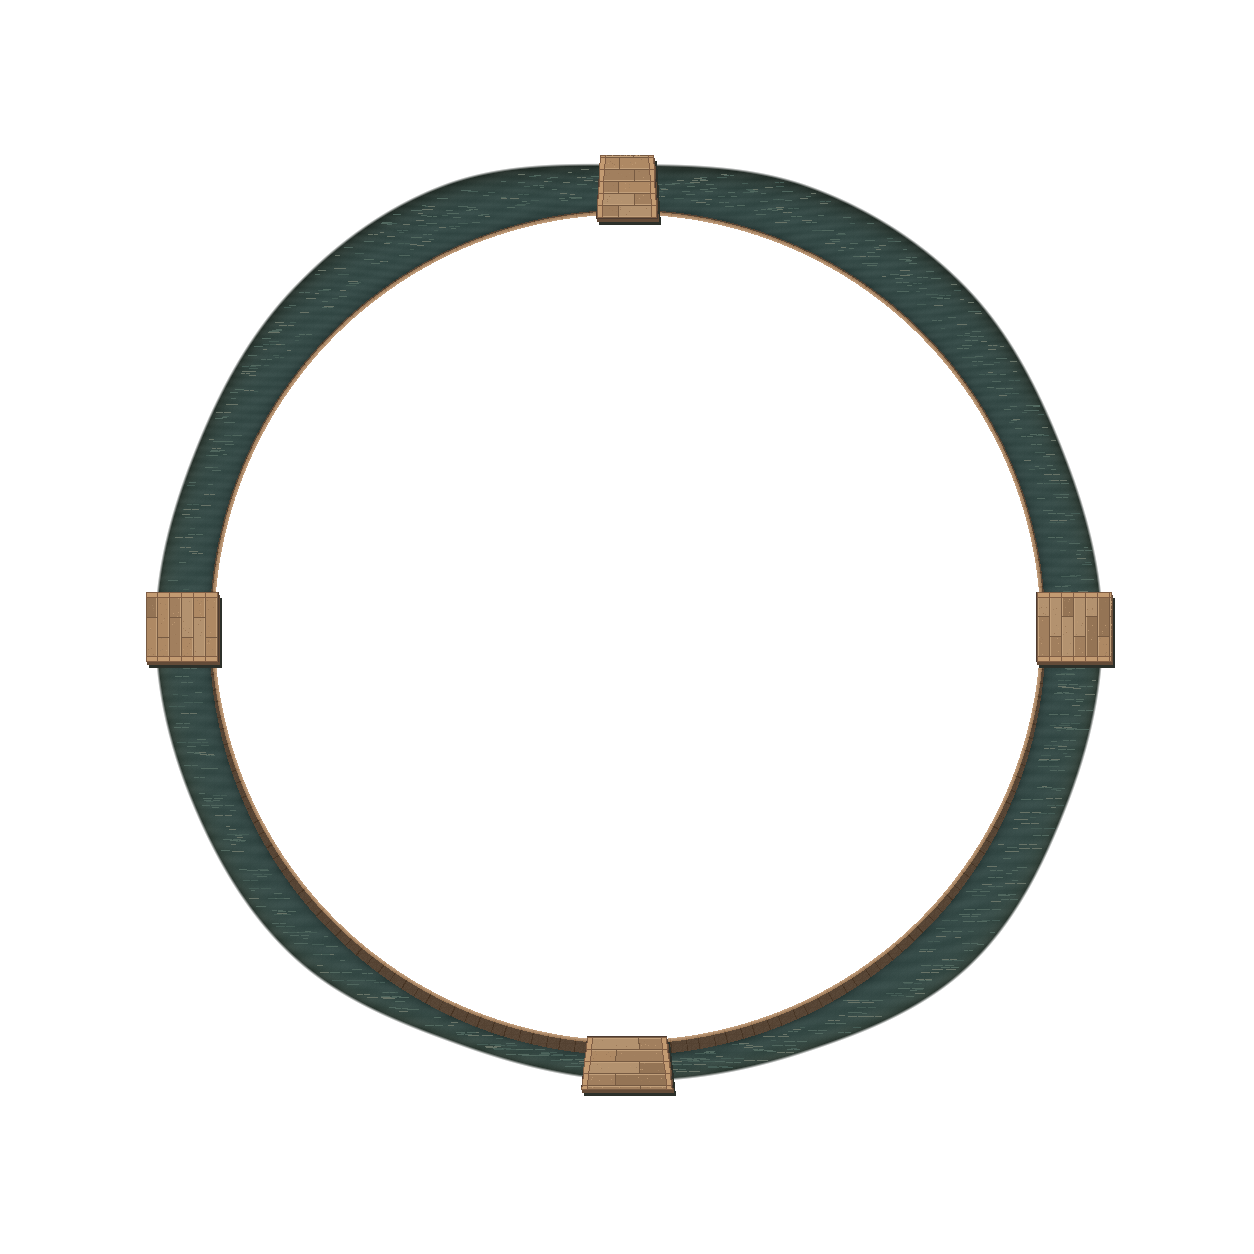
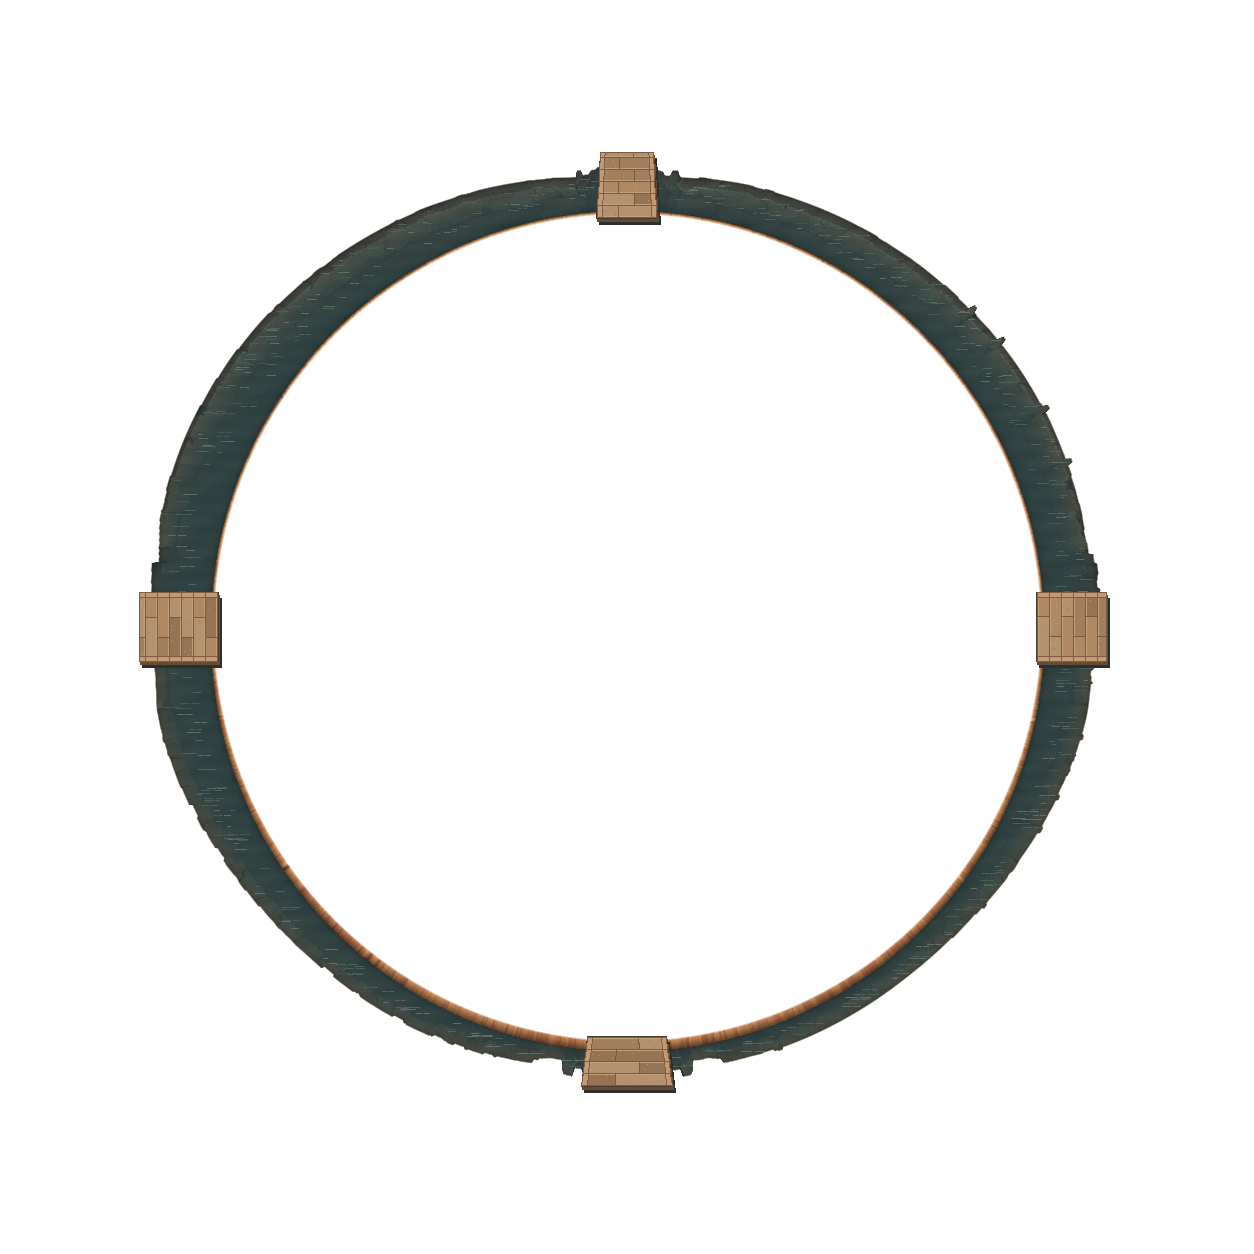
원본 석재 벽돌 밑선을 따라 물길과 반사 수정

diff --git a/tools/build_game_art.py b/tools/build_game_art.py
@@ -40,7 +40,7 @@ def sprites():
 
 
 def shore_depths(samples):
-    """Trace the sandstone edge in the source painting, clockwise from east."""
+    """Interpolate the marked bases of the source stones, clockwise from east."""
     def sample(angle):
         pos = angle % math.tau / math.tau * len(samples)
         i = int(pos)
@@ -50,6 +50,47 @@ def shore_depths(samples):
     return sample
 
 
+def trace_wall_base(art, samples):
+    """Snap the traced guide to the original brick/sand seam, preserving the masonry."""
+    guide = shore_depths(samples)
+    cx, cy = art.width / 2, art.height / 2
+    rgb = art.load()
+    radii = []
+    resolution = 1536
+    for index in range(resolution):
+        angle = index * math.tau / resolution
+        vx, vy = math.cos(angle), math.sin(angle)
+        guess = guide(angle)
+        # At the gates there is no continuous stone to follow.
+        gate_distance = abs(math.sin(2*angle))
+        if gate_distance < .045:
+            radii.append(guess)
+            continue
+        def source(r):
+            samples = [rgb[round(cx + vx*r - vy*side),round(cy + vy*r + vx*side)]
+                       for side in (-2,-1,0,1,2)]
+            return tuple(sum(pixel[c] for pixel in samples)/len(samples) for c in range(3))
+        result, best = guess, 17.0
+        for shift in range(-7,6):
+            r = guess + shift
+            inside, outside = source(r-2),source(r+2)
+            # The front has a bright coping lip. Across the arena the vertical
+            # courses sit in shadow; both are read from the painted image.
+            if vy >= 0:
+                score = outside[1]-inside[1] + .36*(outside[2]-inside[2])
+            else:
+                score = inside[0]-outside[0] + .33*(inside[1]-outside[1])
+            score -= abs(shift)*2.1
+            if score > best:
+                result, best = r-.65, score
+        blend = min(1, max(0, (gate_distance-.045)/.10))
+        radii.append(guess+(result-guess)*blend)
+    # Median across nearby rays to stop individual paint speckles pulling the edge.
+    smooth = [sorted(radii[(i+j) % resolution] for j in (-2,-1,0,1,2))[2]
+              for i in range(resolution)]
+    return shore_depths(smooth)
+
+
 def water():
     settings = SETTINGS['arena']
     scale = json.loads((ROOT/'data/scale.json').read_text(encoding='utf-8'))
@@ -57,13 +98,15 @@ def water():
     radius = settings['ring_radius_px']
     drop = settings['bank_drop_px']
     bridge = settings['bridge_width_m']*radius/radius_m
-    shore = shore_depths(settings['shore_px'])
     with Image.open(ROOT/settings['art']) as source:
-        size = source.size
+        art = source.convert('RGB')
+    shore = trace_wall_base(art,settings['wall_base_px'])
+    size = art.size
+    wall_color = art.load()
     cx,cy = size[0]/2,size[1]/2
     texture = Image.new('RGBA',size)
     pixels = texture.load()
-    limit = max(settings['shore_px']) + 8
+    limit = max(settings['wall_base_px']) + 8
     for y in range(int(cy-limit),int(cy+limit)+1):
         for x in range(int(cx-limit),int(cx+limit)+1):
             dx,dy = (x-cx,y-cy)
@@ -77,30 +120,36 @@ def water():
             front = max(0,dy/r)
             # Water is below the sand. The near edge exposes a dark stone face;
             # at the back that same face is hidden behind the island.
-            wall = 2.8 + drop*front
+            wall = 1.7 + drop*.75*front
             depth = r-radius
             grain = (x*31+y*17+x*y*13)%9
             if depth < wall:
-                joint = abs((theta*radius + math.sin(theta*93)*1.1) % 13.8) < 1.0
-                light = max(0,2-depth)*14 - (16 if joint else 0) + grain
-                base = (141,106,73) if depth < 1.4 else (83,65,49)
-                pixels[x,y] = (*tuple(max(0,int(c+light)) for c in base),255)
+                joint = (theta*radius + math.sin(theta*93)*1.1) % 13.8 < 1.0
+                pct = max(0, depth) / wall
+                sand = wall_color[round(cx+dx*(radius-4)/r),round(cy+dy*(radius-4)/r)]
+                light = (1 - .54*pct) * (.89 if joint else 1)
+                color = tuple(round(channel*light+grain*.28) for channel in sand)
+                pixels[x,y] = (*color, min(255,round((depth+2)*125)))
                 continue
 
             stone_dist = outer-r
-            # Shade against both banks and pick up warm reflection from the old stone.
-            shade = 1 - .54*math.exp(-stone_dist/(4 + 6*max(0,-dy/r)))
-            shade -= .23*math.exp(-(depth-wall)/4)
-            warm = 10*math.exp(-stone_dist/10)
-            wave = math.sin(dy*(.6-.15*dy/r)+math.sin(dx*.038))
-            glint = 3*wave + 2*math.sin(dy*.28+dx*.13) + grain*.45
-            base = (53+warm,74+warm*.38,71-warm*.43)
-            color = tuple(max(0,int(c*shade+glint)) for c in base)
-            # Let the original paving still define the outer silhouette.
-            pixels[x,y] = (*color,min(255,round(stone_dist*90)))
+            # Reflect the real lowest stone row, with ripples breaking the image.
+            ripple = math.sin(dy*.41+math.sin(dx*.054)) + math.sin(dy*.19+dx*.11)
+            reflect_at = theta + ripple*.005
+            reflect_r = outer + min(34,stone_dist*.75) + 5
+            reflected = wall_color[
+                round(cx+reflect_r*math.cos(reflect_at)),
+                round(cy+reflect_r*math.sin(reflect_at))]
+            strength = .30*math.exp(-stone_dist/(9 + 8*max(0,-dy/r)))
+            shade = 1 - .42*math.exp(-stone_dist/4.5) - .21*math.exp(-(depth-wall)/4)
+            wet = (46,65,65)
+            speckle = ripple*1.6 + grain*.34
+            color = tuple(round((base*(1-strength) + reflected[i]*strength)*shade+speckle)
+                          for i,base in enumerate(wet))
+            pixels[x,y] = (*color,min(255,round(stone_dist*180)))
     draw = ImageDraw.Draw(texture)
     rng = random.Random(72)
-    for _ in range(1150):
+    for _ in range(710):
         angle = rng.uniform(0,math.tau)
         near = (1+math.sin(angle))/2
         r = rng.uniform(radius+11,shore(angle)-6)
@@ -110,7 +159,7 @@ def water():
                and pixels[round(x+d),round(y)][2] > 48
                and abs(math.hypot(x+d-cx,y-cy)-radius) > drop+5 for d in (0,span/2,span)):
             # Low, broken, predominantly horizontal glints follow the floor perspective.
-            color = rng.choice(('#4f655d','#52685f','#455c55','#687367'))
+            color = rng.choice(('#4a615a','#4c645d','#455a54','#626e63'))
             for start,end in ((0,span*.44),(span*.58,span)):
                 draw.line((x+start,y,x+end,y),fill=color)
     for side in range(4):

diff --git a/presentation_data.py b/presentation_data.py
@@ -3,24 +3,72 @@ VISUALS = {'arena': {'id': 'arena',
            'art': 'art/background-review-v1/colosseum.png',
            'water': 'assets/arena-water.png',
            'ring_radius_px': 415,
-           'shore_px': [476,
-                        475,
-                        482,
-                        461,
-                        454,
-                        451,
-                        470,
-                        470,
-                        473,
-                        468,
-                        477,
-                        480,
-                        464,
-                        478,
-                        481,
-                        471],
            'bank_drop_px': 10,
-           'bridge_width_m': 5.0},
+           'bridge_width_m': 5.0,
+           'wall_base_px': [471,
+                            469,
+                            470,
+                            467,
+                            463,
+                            459,
+                            455,
+                            452,
+                            451,
+                            450,
+                            450,
+                            450,
+                            450,
+                            449,
+                            442,
+                            453,
+                            451,
+                            452,
+                            442,
+                            451,
+                            453,
+                            456,
+                            458,
+                            459,
+                            460,
+                            464,
+                            466,
+                            471,
+                            474,
+                            476,
+                            478,
+                            474,
+                            480,
+                            481,
+                            481,
+                            483,
+                            484,
+                            484,
+                            484,
+                            483,
+                            481,
+                            478,
+                            475,
+                            472,
+                            468,
+                            464,
+                            460,
+                            456,
+                            467,
+                            456,
+                            459,
+                            462,
+                            464,
+                            466,
+                            468,
+                            470,
+                            471,
+                            473,
+                            474,
+                            474,
+                            473,
+                            473,
+                            471,
+                            476]},
  'sprites': {'id': 'sprites',
              'atlas': 'art/sprite-review/atlas.json',
              'asset_dir': 'assets/combat-sprites',

diff --git a/tools/generate_data.py b/tools/generate_data.py
@@ -70,7 +70,7 @@ def generate():
 
 def validate_presentation(data):
     schemas = {
-        'arena': {'art', 'water', 'ring_radius_px', 'shore_px', 'bank_drop_px', 'bridge_width_m'},
+        'arena': {'art', 'water', 'ring_radius_px', 'wall_base_px', 'bank_drop_px', 'bridge_width_m'},
         'sprites': {'atlas', 'asset_dir', 'body_height_px'},
         'impact': {'sound', 'volume', 'hitstop_s', 'flash_s', 'number_s', 'rise_m',
                    'shake_s', 'shake_m', 'max_shake_m'},
@@ -85,8 +85,8 @@ def validate_presentation(data):
         if set(row) != schemas[row['id']] | {'id'}:
             raise ValueError(f'{row["id"]}: 누락되거나 알 수 없는 셀')
         for field, value in row.items():
-            if field == 'shore_px':
-                if (not isinstance(value, list) or len(value) != 16
+            if field == 'wall_base_px':
+                if (not isinstance(value, list) or len(value) != 64
                         or any(type(v) is not int or v <= row['ring_radius_px'] + row['bank_drop_px'] for v in value)):
                     raise ValueError('물길의 석벽 경계가 경기장 안쪽입니다.')
                 continue
